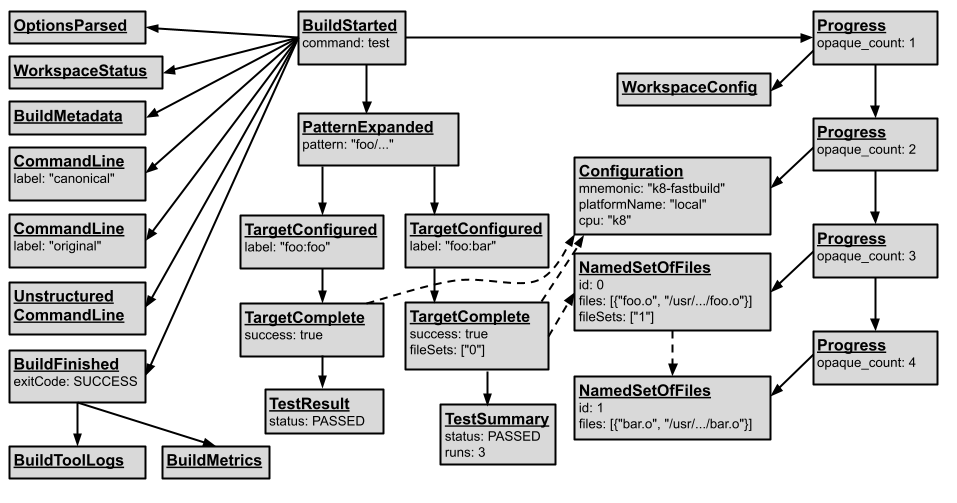
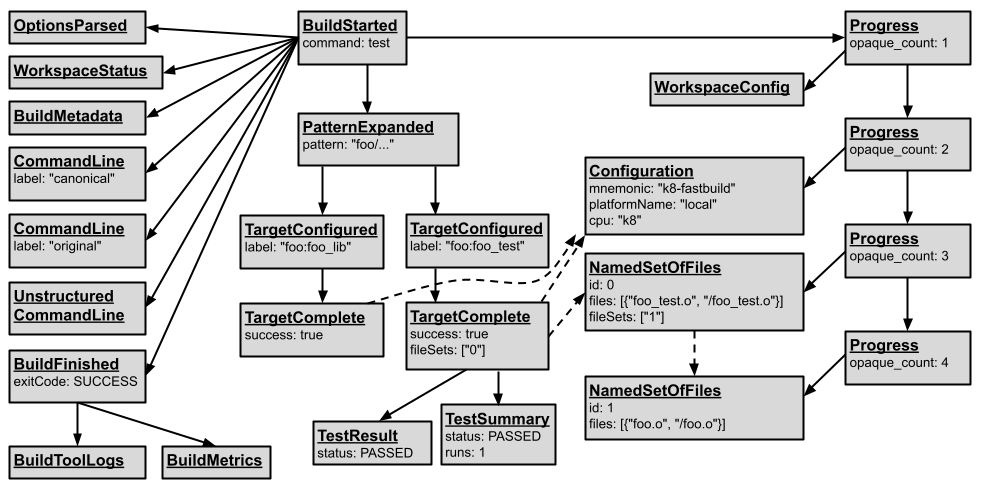
Update BEP docs to clarify graph shape, include diagram for NestedSetOfFiles.
Also clarifies how to set the --bes_backend flag correctly.

PiperOrigin-RevId: 373395007

diff --git a/site/docs/bep-examples.md b/site/docs/bep-examples.md
@@ -14,14 +14,9 @@ Consider a simple Bazel workspace that consists of two empty shell scripts
 `foo.sh` and `foo_test.sh` and the following BUILD file:
 
 ```bash
-sh_binary(
-    name = "foo",
-    srcs = ["foo.sh"],
-)
-
 sh_library(
     name = "foo_lib",
-    data = [":foo"],
+    srcs = ["foo.sh"],
 )
 
 sh_test(
@@ -53,11 +48,11 @@ build was invoked through the `bazel test` command and announces child events:
 The first three events provide information about how Bazel was invoked.
 
 The `PatternExpanded` build event provides insight
-into which specific targets the `...` pattern expanded to: `//:foo`,
-`//:foo_lib` and `//:foo_test`. It does so by declaring three `TargetConfigured`
-events as children. Note that the `TargetConfigured` event declares the
-`Configuration` event as a child event, even though `Configuration` has been
-posted before the `TargetConfigured` event.
+into which specific targets the `...` pattern expanded to:
+`//foo:foo_lib` and `//foo:foo_test`. It does so by declaring two
+`TargetConfigured` events as children. Note that the `TargetConfigured` event
+declares the `Configuration` event as a child event, even though `Configuration`
+has been posted before the `TargetConfigured` event.
 
 Besides the parent and child relationship, events may also refer to each other
 using their build event identifiers. For example, in the above graph the
@@ -74,10 +69,10 @@ the number of files. A `NamedSetOfFiles` event may also not have all its files
 embedded, but instead refer to other `NamedSetOfFiles` events through their
 build event identifiers.
 
-Below is an instance of the `TargetComplete` event for the `//:foo_lib` target
-from the above graph, printed in protocol buffer’s JSON representation. The
-build event identifier contains the target as an opaque string and refers to the
-`Configuration` event using its build event identifier. The event does not
+Below is an instance of the `TargetComplete` event for the `//foo:foo_lib`
+target from the above graph, printed in protocol buffer’s JSON representation.
+The build event identifier contains the target as an opaque string and refers to
+the `Configuration` event using its build event identifier. The event does not
 announce any child events. The payload contains information about whether the
 target was built successfully, the set of output files, and the kind of target
 built.
@@ -86,7 +81,7 @@ built.
 {
   "id": {
     "targetCompleted": {
-      "label": "//:foo_lib",
+      "label": "//foo:foo_lib",
       "configuration": {
         "id": "544e39a7f0abdb3efdd29d675a48bc6a"
       }
@@ -124,7 +119,7 @@ the BEP:
 {
   "id": {
     "targetCompleted": {
-      "label": "//:foo_lib",
+      "label": "//foo:foo_lib",
       "configuration": {
         "id": "544e39a7f0abdb3efdd29d675a48bc6a"
       },
@@ -157,6 +152,8 @@ Consumers must take care to avoid quadratic algorithms when processing
 `NamedSetOfFiles` events because large builds can contain tens of thousands of
 such events, requiring hundreds of millions operations in a traversal with
 quadratic complexity.
+
+![namedsetoffiles-bep-graph](/assets/namedsetoffiles-bep-graph.png)
 
 A `NamedSetOfFiles` event always appears in the BEP stream *before* a
 `TargetComplete` or `NamedSetOfFiles` event that references it. This is the

diff --git a/site/docs/build-event-protocol.md b/site/docs/build-event-protocol.md
@@ -52,6 +52,20 @@ necessarily be posted before it. When a build is complete (succeeded or failed)
 all announced events will have been posted. In case of a Bazel crash or a failed
 network transport, some announced build events may never be posted.
 
+The event graph's structure reflects the lifecycle of a command. Every BEP
+graph has the following characteristic shape:
+
+1. The root event is always a [`BuildStarted`](bep-glossary.md#buildstarted)
+   event. All other events are its descendants.
+1. Immediate children of the BuildStarted event contain metadata about the
+   command.
+1. Events containing data produced by the command, such as files built and test
+   results, appear before the [`BuildFinished`](bep-glossary.md#buildfinished)
+   event.
+1. The [`BuildFinished`](bep-glossary.md#buildfinished) event *may* be followed
+   by events containing summary information about the build (for example, metric
+   or profiling data).
+
 ## Consuming Build Event Protocol
 
 ### Consume in binary format
@@ -88,8 +102,9 @@ Protocol is a generic [gRPC](https://www.grpc.io) service for publishing build e
 Service protocol is independent of the BEP and treats BEP events as opaque bytes.
 Bazel ships with a gRPC client implementation of the Build Event Service protocol that
 publishes Build Event Protocol events. One can specify the endpoint to send the
-events to using the `--bes_backend=HOST:PORT` flag. Bazel’s implementation also
-supports TLS which can be enabled by specifying the `--tls_enabled` flag.
+events to using the `--bes_backend=HOST:PORT` flag. If your backend uses gRPC,
+you must prefix the address with the appropriate scheme: `grpc://` for plaintext
+gRPC and `grpcs://` for gRPC with TLS enabled.
 
 There is currently an experimental open source implementation of the [Build
 Event Service](https://github.com/buildbarn/bb-event-service/) in Go as part of
@@ -139,5 +154,4 @@ from the cache.
 
 See [GitHub issue 3689](https://github.com/bazelbuild/bazel/issues/3689) for
 more details.
-
 
